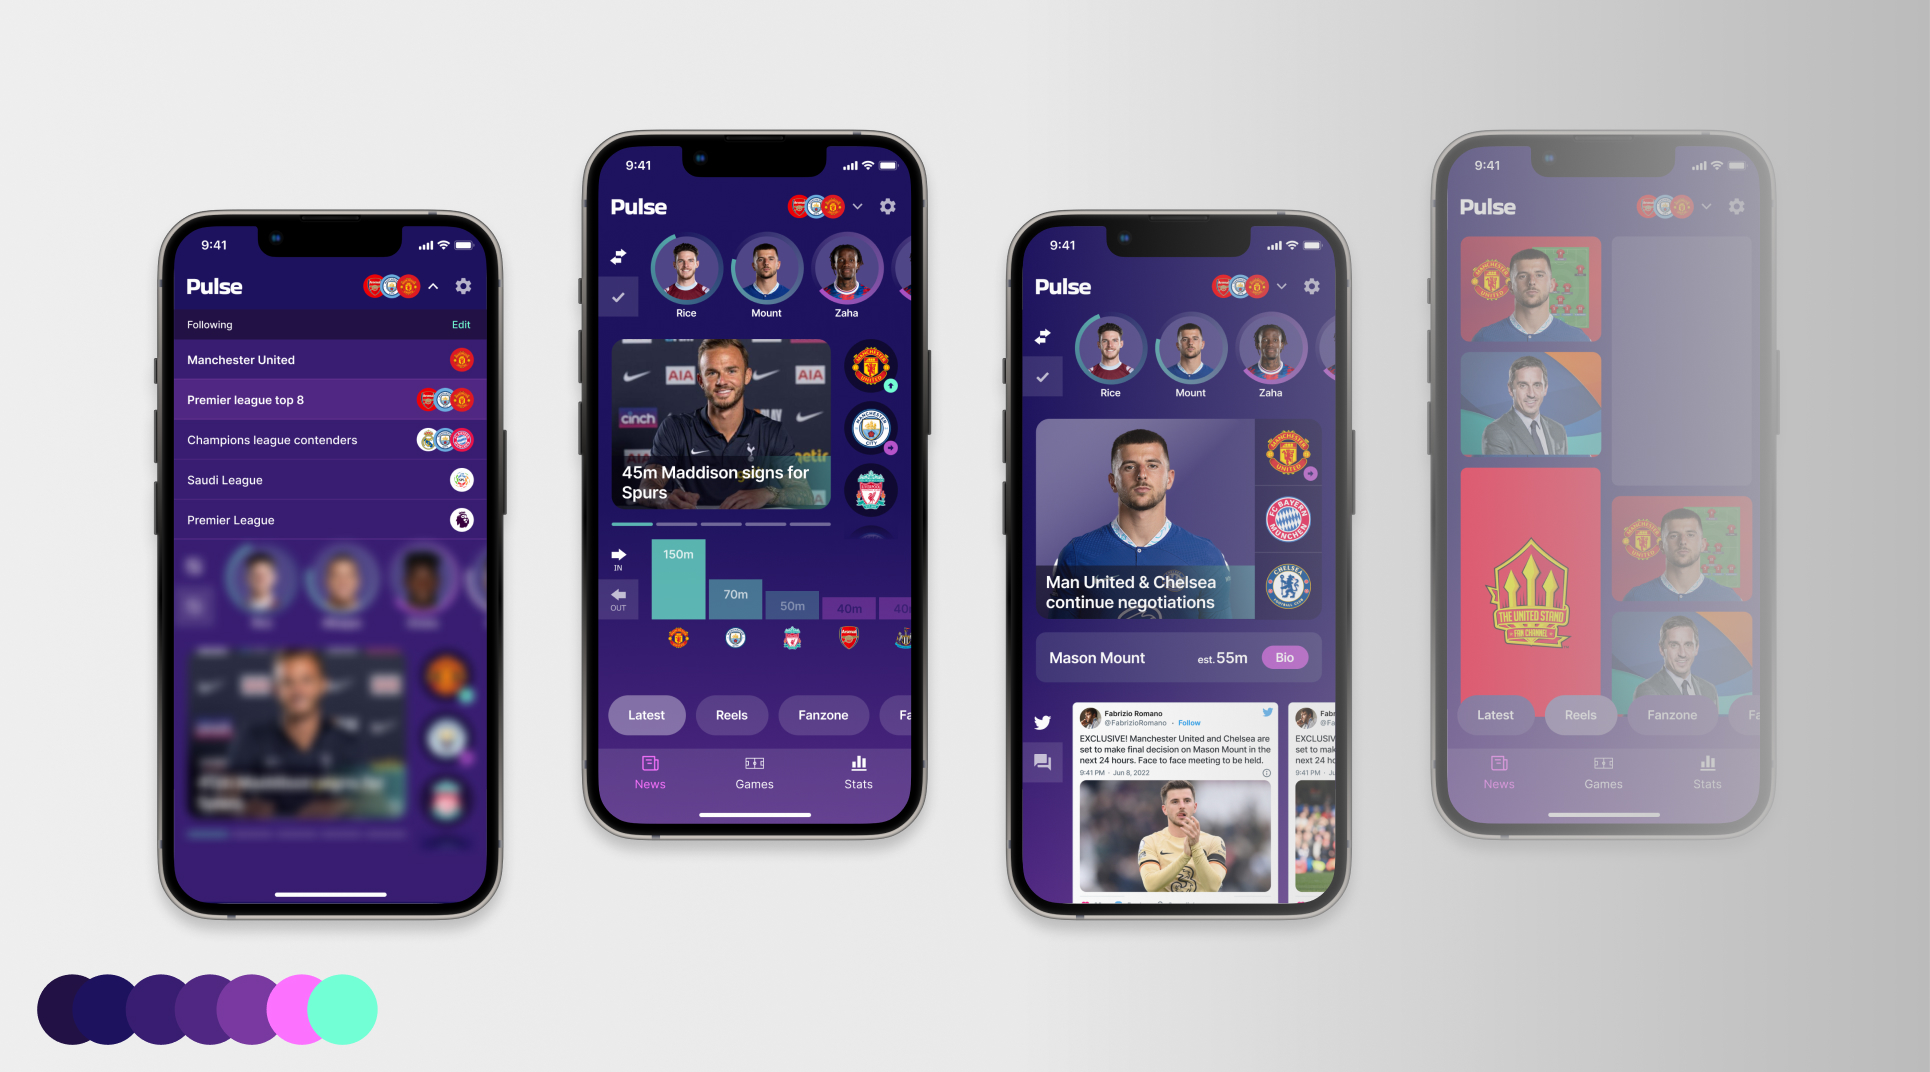
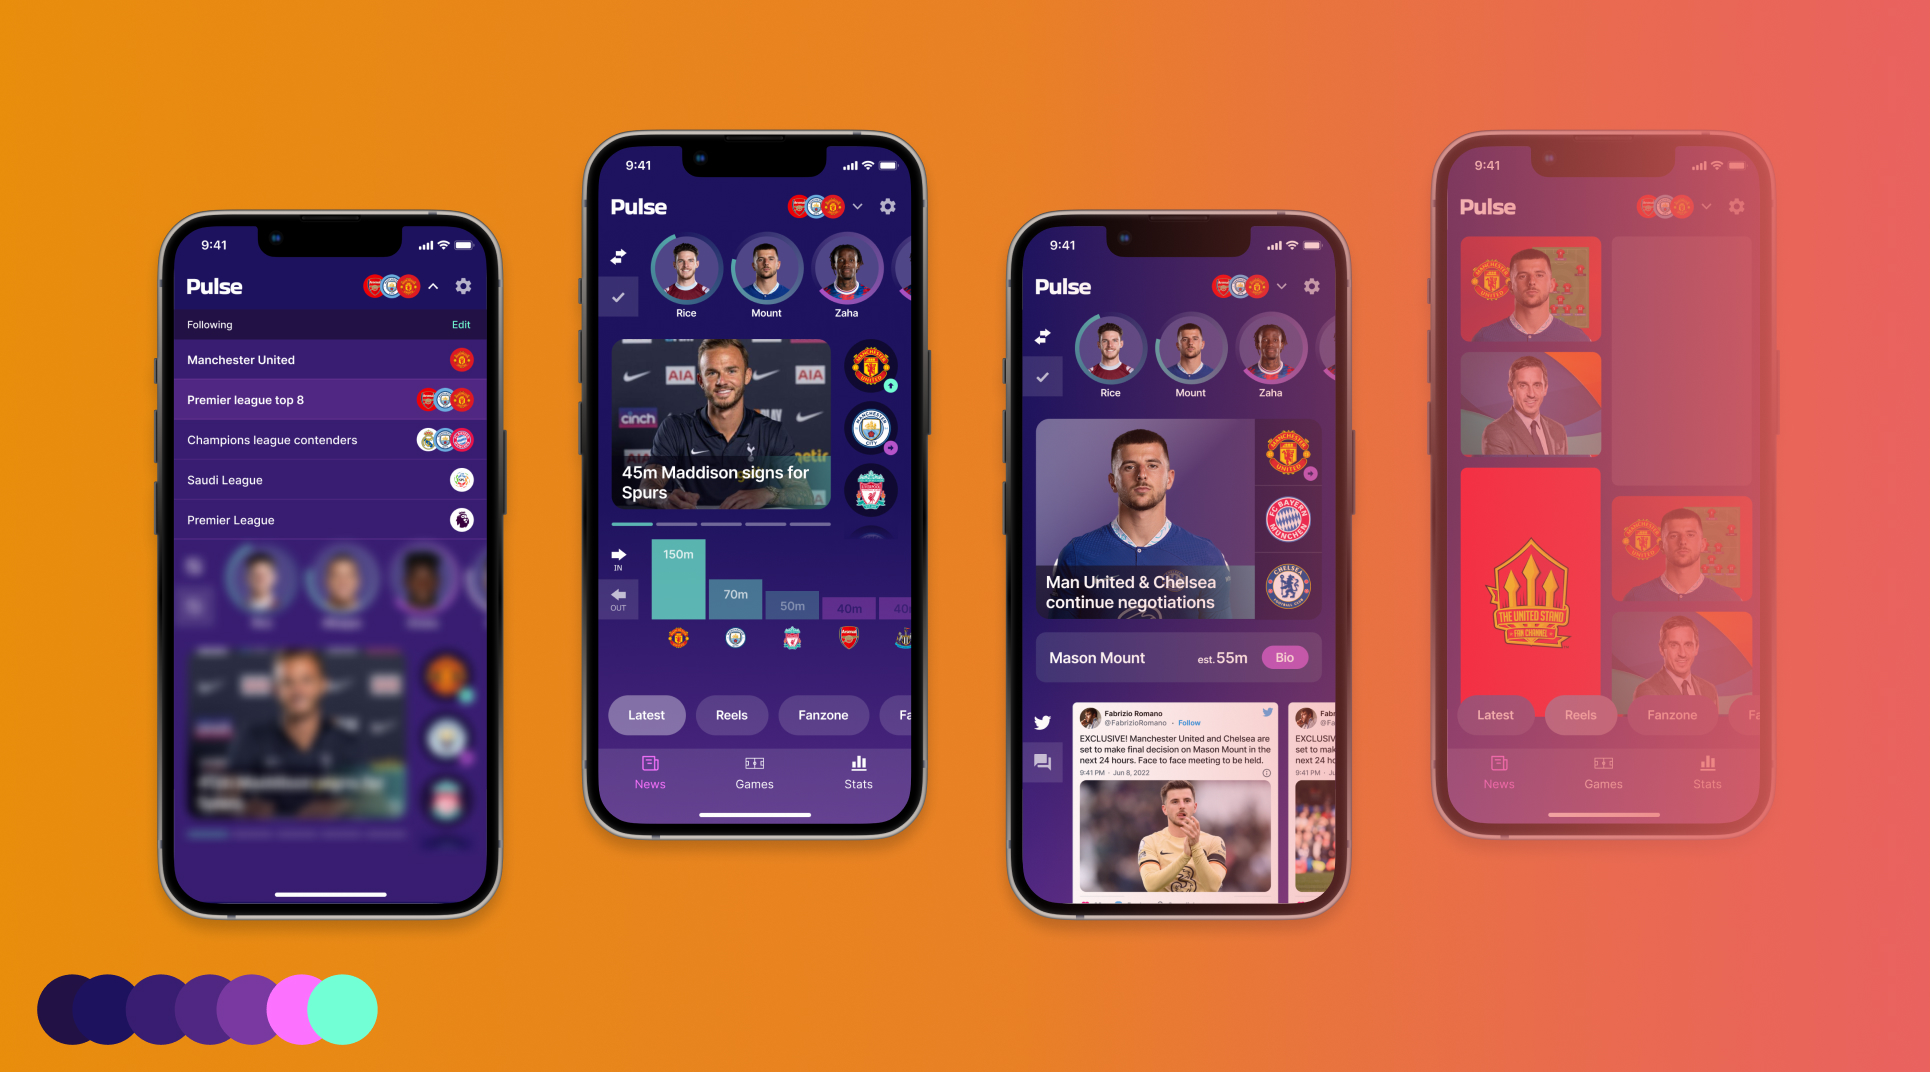
;;;

diff --git a/test123.html b/test123.html
@@ -211,6 +211,13 @@ background: linear-gradient(90deg, #21134E 0%, #000 100%);
 #showcase1 div.hypothesis{
 background: #000;
 }
+#showcase2{
+color: #FFF;
+background-color: #E88D0C;
+}
+#showcase2 div.hypothesis{
+background-color: #E9625F;
+}
 .header{
 background-color: #346672;
 background-image: url(https://peteroper.github.io/portfolio/assets/imgs/header.png);
@@ -766,6 +773,13 @@ justify-content: center;
                             </ol>
                         </div>
                         <img src="https://peteroper.github.io/portfolio/assets/imgs/showcase2.2.jpg" />
+                        <div class="hypothesis">
+                            <h3>Football at your finger tips</h3>
+                            <p>Over the last 7-8 years I have noticed football related products becoming more sophisticated. Notable applications would include Fantasy Premier League, Transfermarkt and One Football.</p>
+                            <p>Although One Football is pushing boundaries, football news still feels trapped in an outdated media format, where information is spread across multiple articles.</p>
+                            <p>Thanks to the advent of AI, it is now possible to aggregate and combine football information to cater to users' specific needs. This includes providing comprehensive analysis, data insights, and an all-in-one football experience.</p>
+                        </div>
+                        <img src="https://peteroper.github.io/portfolio/assets/imgs/showcase2.3.jpg" />
                     </div>
                     <div id="showcase3" class="tab-container">
                         <div><h4>Coming Soon</h4></div>
